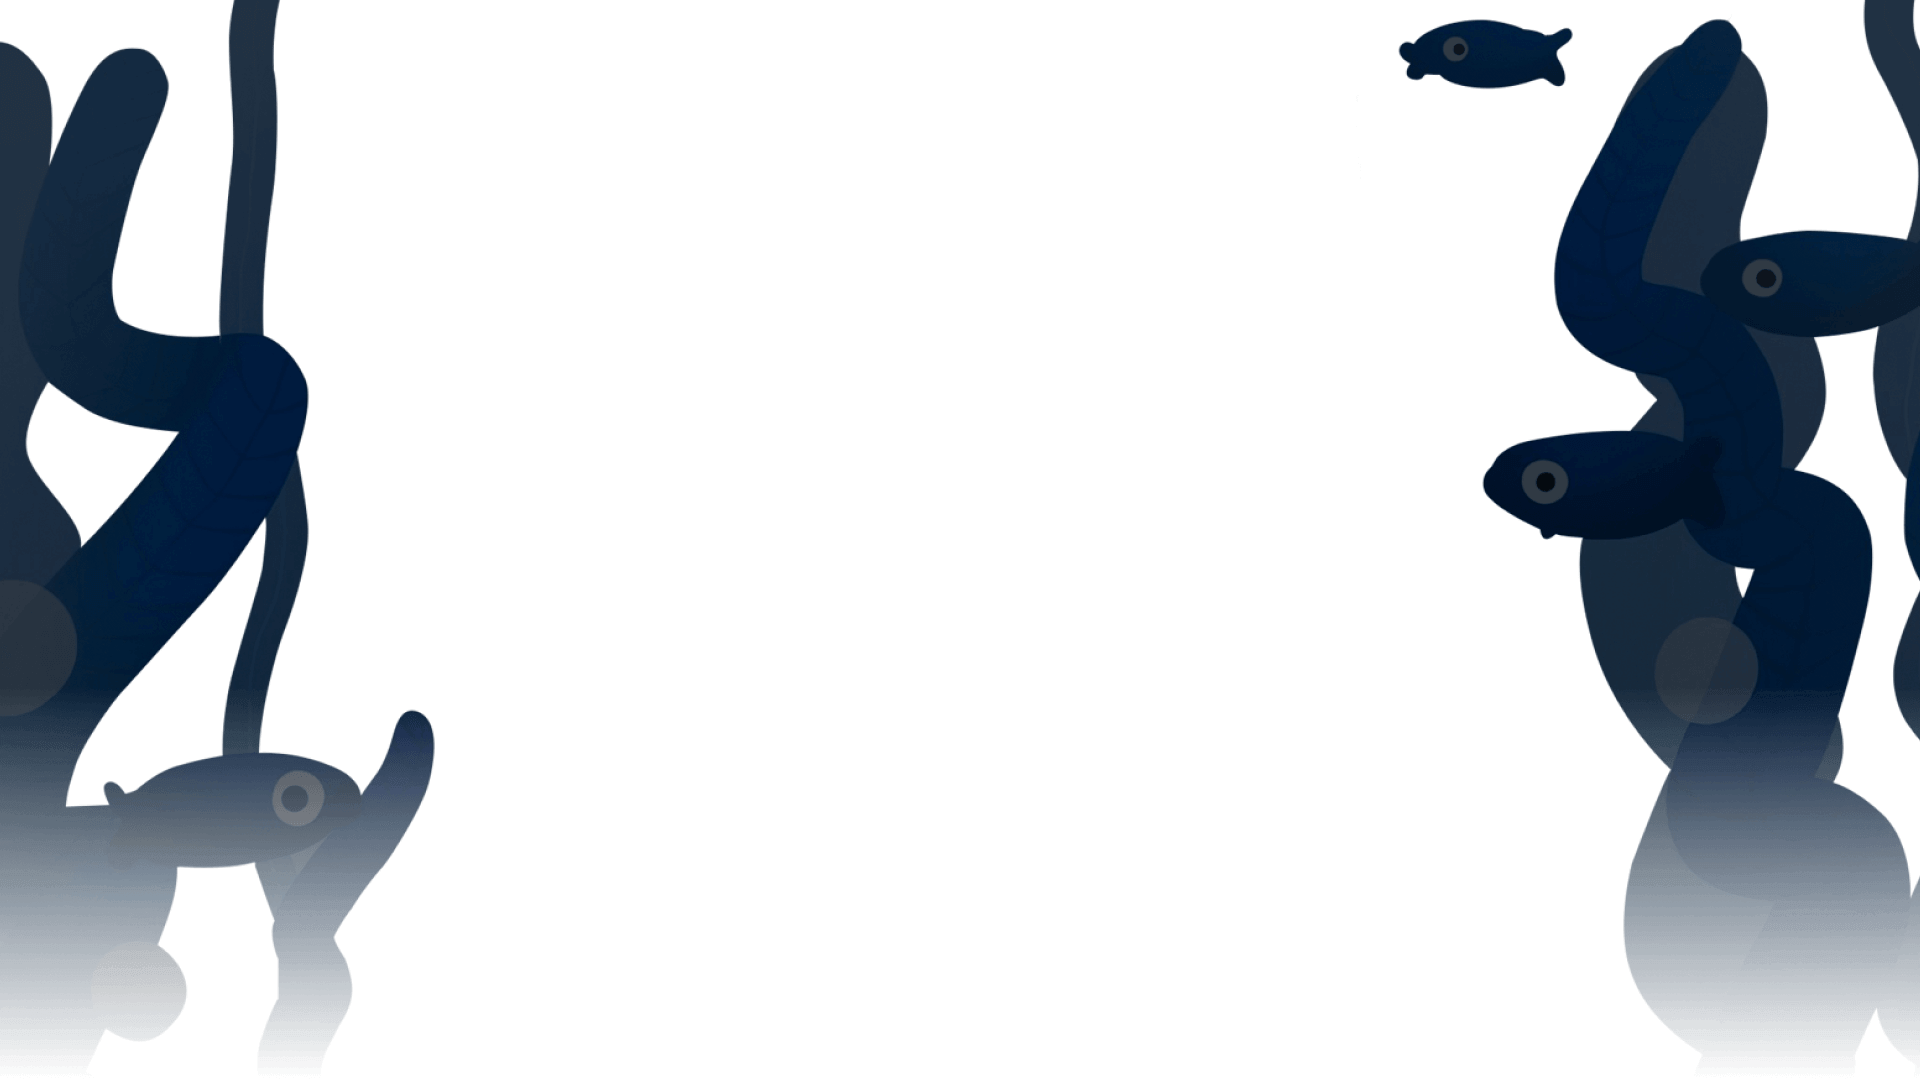
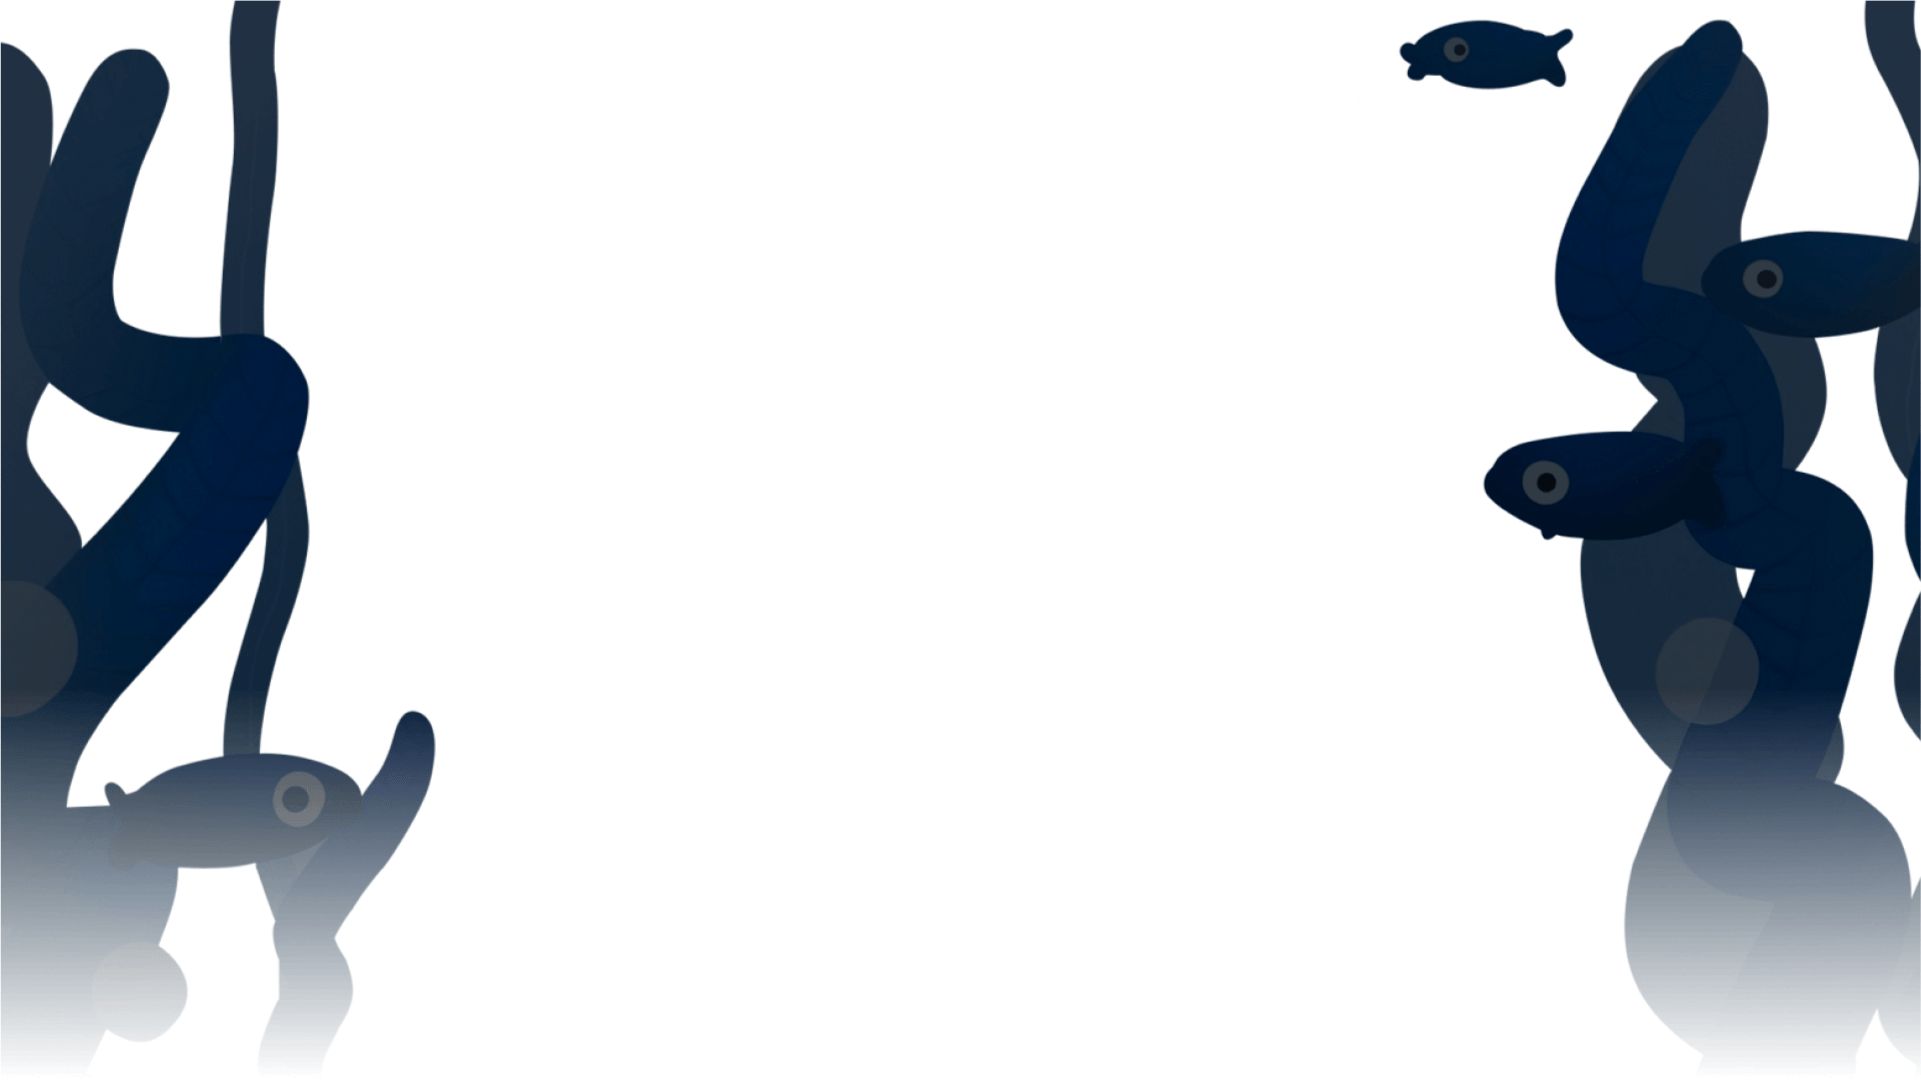
Landing page bug-fixes after checks

diff --git a/src/common/components/landing-page/_index.scss b/src/common/components/landing-page/_index.scss
@@ -122,7 +122,12 @@
   }
   .tob-bg-fishes {
     display: none;
-    background-image: url("https://ecency.com/assets/hero-fishes.svg");
+    @include themify(night) {
+      background-image: url("https://ecency.com/assets/hero-fishes-dark.png");
+    }
+    @include themify(day) {
+      background-image: url("https://ecency.com/assets/hero-fishes.svg");
+    }
     background-position: 100% 100%;
     background-size: contain;
     background-repeat: no-repeat;
@@ -491,6 +496,11 @@
         background-color: #131a29;
       }
     }
+    .part-bottom {
+      @media (max-width:$sm-break) {
+        height: 470px;
+      }
+    }
   }
 
   .third-section {
@@ -560,8 +570,13 @@
             width: 90%;
             height: auto;
             .decentralization-img {
-              width: 90%;
+              max-height: 270px;
+              height: auto;
+              width: 70%;
             }
+          }
+          .text-group {
+            height: 320px;
           }
         }
       }
@@ -636,6 +651,29 @@
             .mechanic {
               margin-top: 2rem;
               width: 90%;
+              height: auto;
+            }
+          }
+        }
+        
+      }
+      @media (max-width: $sm-break) {
+        height: 630px;
+        .inner {
+          .text-group {
+            
+            p {
+              line-height: 25px;
+              font-size: 15px;
+              span {
+              }
+            }
+          }
+          .img-wrapper {
+            width: 100%;
+            .mechanic {
+              margin-top: 2rem;
+              width: 60%;
               height: auto;
             }
           }
@@ -733,6 +771,9 @@
           .five {
             display: none;
           }
+        }
+        @media (max-width: $sm-break) {
+          transform: scale(0.7);
         }
       }
       .mask {
@@ -963,18 +1004,7 @@
         @media (max-width: $lg-break) {
           height: 100%;
           span:last-of-type {
-            display: -webkit-box;
-            display: -ms-flexbox;
-            display: flex;
-            width: 95%;
-            height: 70px;
-            position: absolute;
-            bottom: 50px;
-            right: 17%;
-            background-image: url("https://ecency.com/assets/fish-2.png");
-            background-size: contain;
-            background-repeat: no-repeat;
-            background-position-x: right;
+            display: none;
           }
           .text-group {
             width: 100%;
@@ -998,6 +1028,11 @@
 
   .fifth-section {
     .part-top {
+      @include themify(night) {
+        background-color: #131B2A;
+        z-index: 1;
+      }
+    
       .inner {
         width: 100%;
         -ms-flex-wrap: nowrap;
@@ -1018,6 +1053,7 @@
     }
     .part-bottom {
       @include themify(night) {
+        z-index: 1;
         background-color: #131a29;
       }
       .inner {
@@ -1028,7 +1064,6 @@
           max-width: 90%;
           height: auto;
           width: 300px;
-          height: auto;
           margin: 1rem;
         }
         .text-group {
@@ -1158,6 +1193,7 @@
                       justify-content: flex-start;
               height: 80px;
               margin-bottom: 1rem;
+              
               .text-wrapper {
                 height: 100%;
                 display: -webkit-box;
@@ -1201,6 +1237,9 @@
               }
             }
           }
+          ul > li:last-of-type {
+            padding-left: 0;
+          }
         }
         .image-container {
           width: 45%;
@@ -1214,6 +1253,7 @@
           display: inline-block;
           height: auto;
           width: 100%;
+          margin-left: -6rem;
         }
       }
     }
@@ -1241,14 +1281,14 @@
       position: relative;
       .left-fishes {
         position: absolute;
-        top: 0;
-        left: 0;
+        top: 90px;
+        left: 50px;
         background-image: url("https://ecency.com/assets/left-fishes.png");
         background-repeat: no-repeat;
         background-position: center;
         background-size: contain;
-        height: 350px;
-        width: 350px;
+        height: 270px;
+        width: 270px;
         @media (max-width: $xxxl-break) {
           display: none;
         }
@@ -1260,7 +1300,7 @@
         background-repeat: no-repeat;
         background-position: center;
         background-size: contain;
-        width: 400px;
+        width: 500px;
         height: 600px;
       }
       .inner {

diff --git a/src/common/components/navbar/_index.scss b/src/common/components/navbar/_index.scss
@@ -144,8 +144,8 @@
       }
 
       .logo {
-        width: 44px;
-        height: 44px;
+        width: 40px;
+        height: 40px;
         cursor: pointer;
       }
     }

diff --git a/src/common/components/profile-cover/_index.scss b/src/common/components/profile-cover/_index.scss
@@ -26,7 +26,7 @@
     position: absolute;
     right: 10px;
     top: 10px;
-    z-index: 2;
+    z-index: 1;
     display: flex;
     align-items: center;
   }
